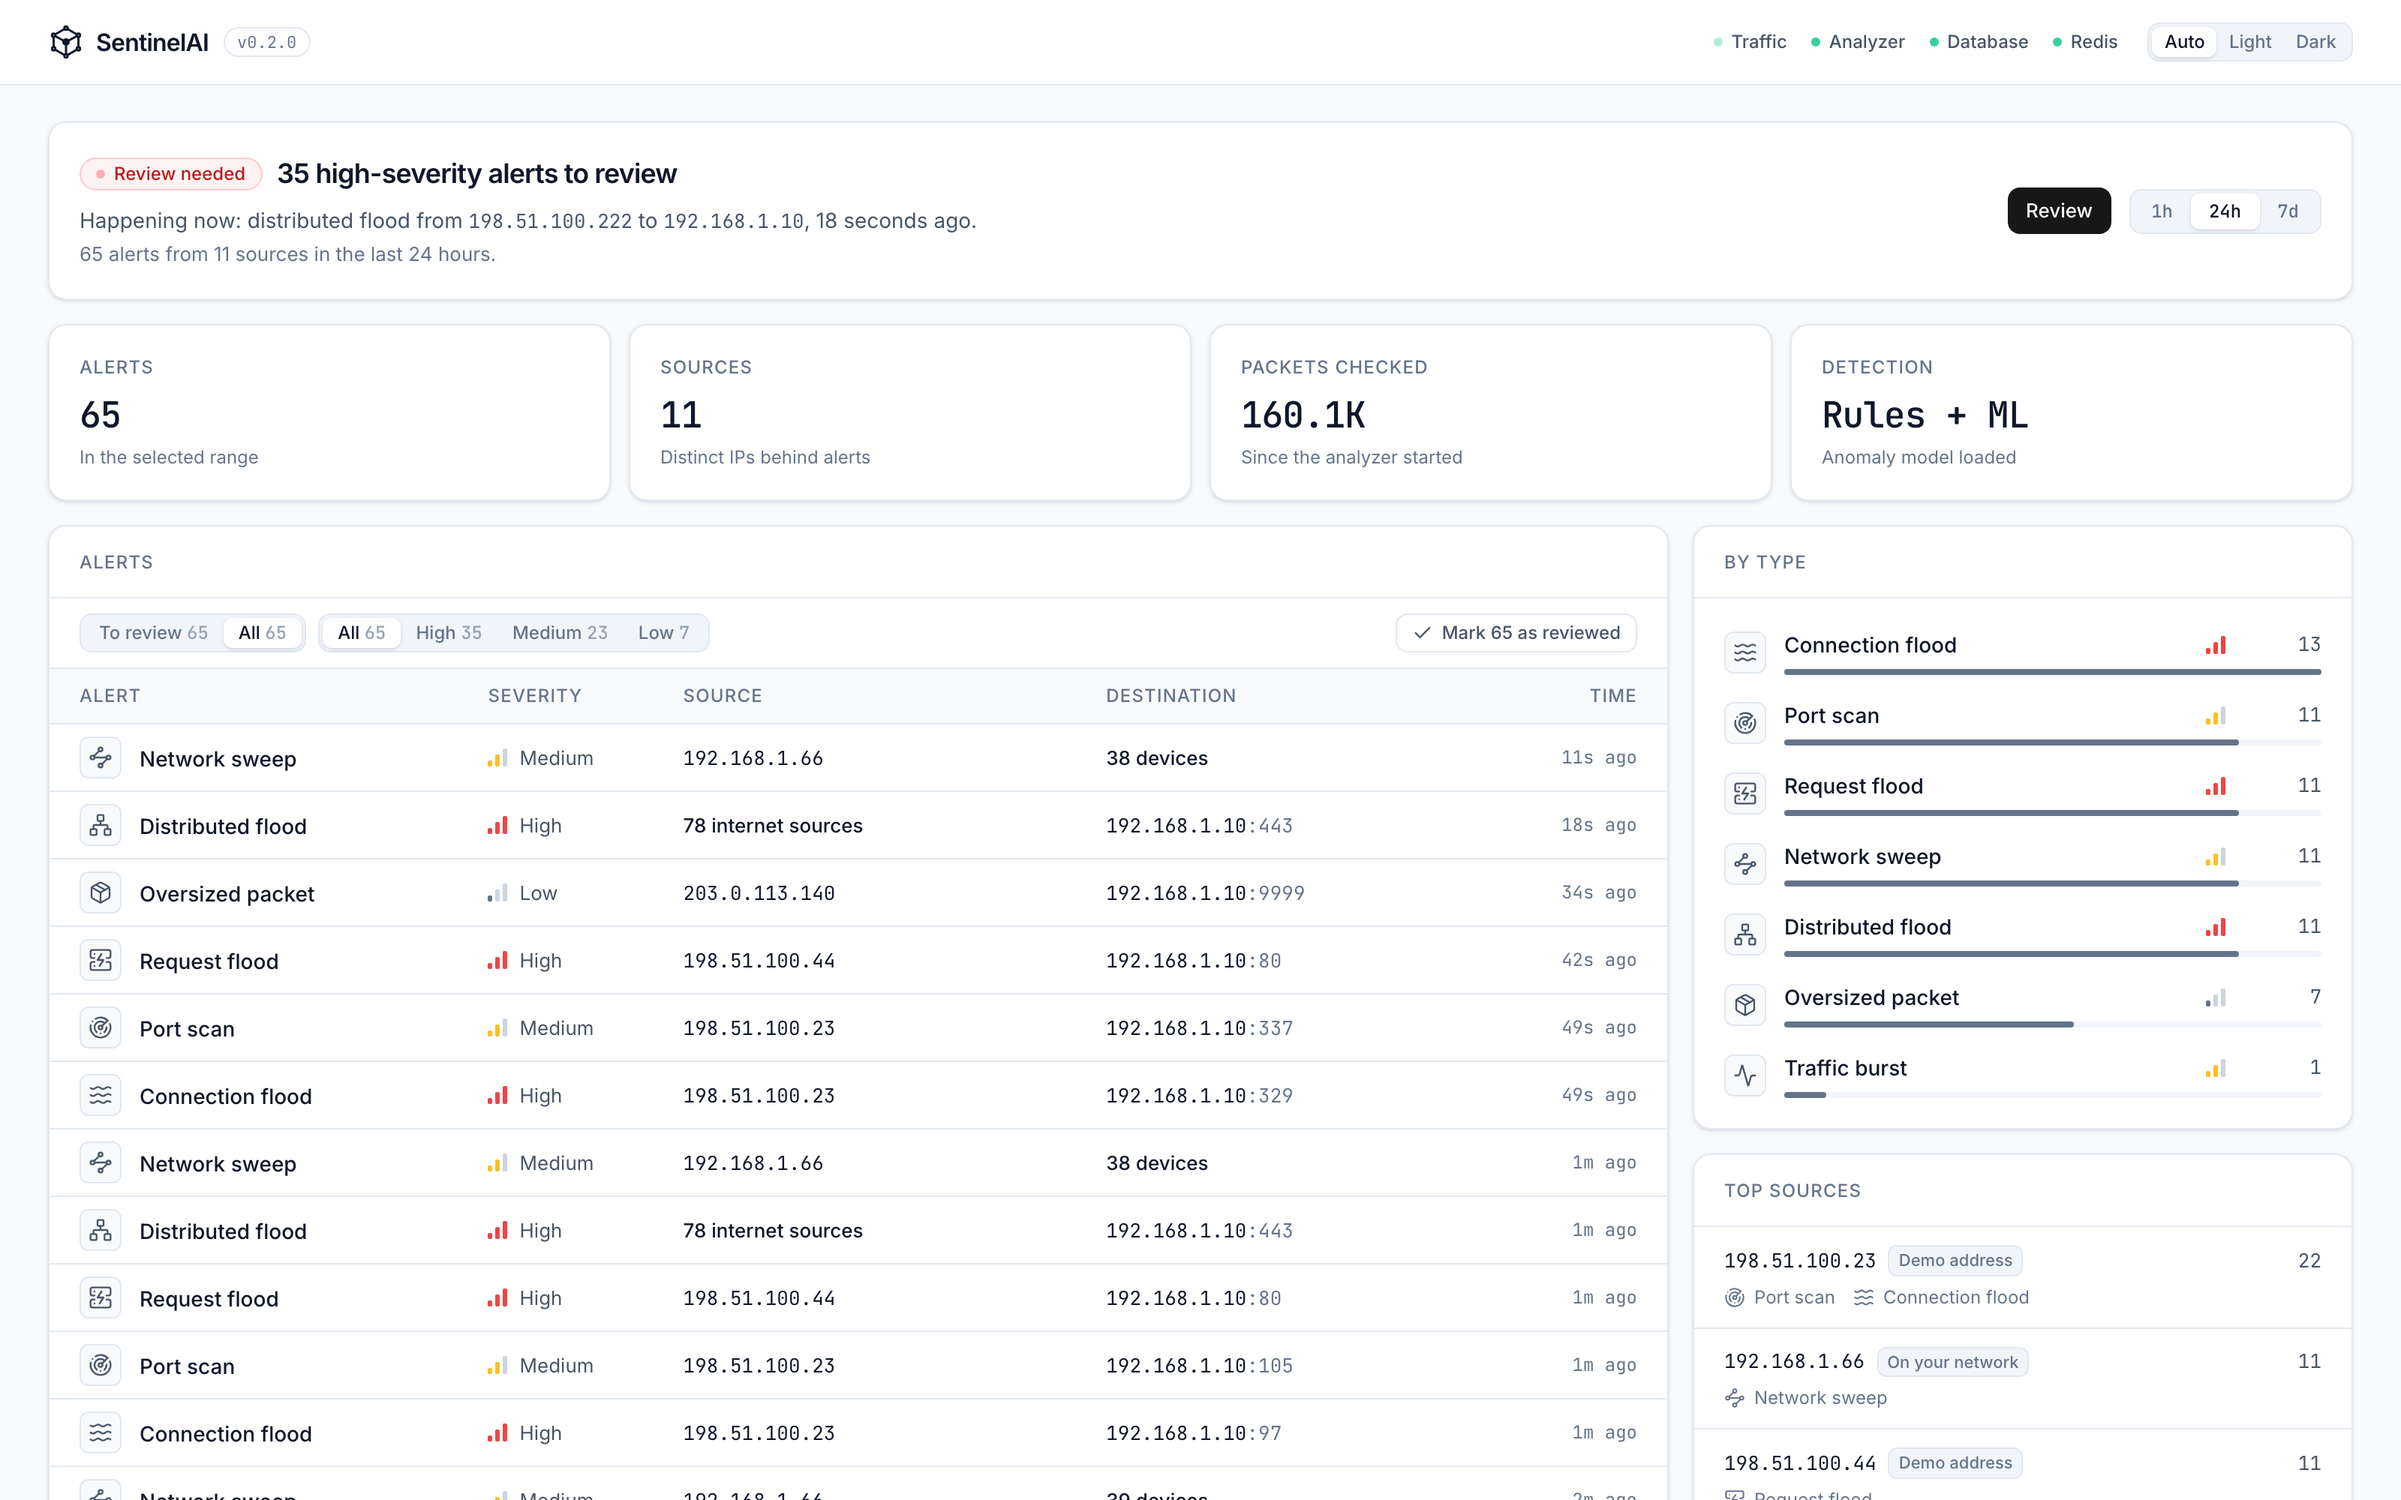
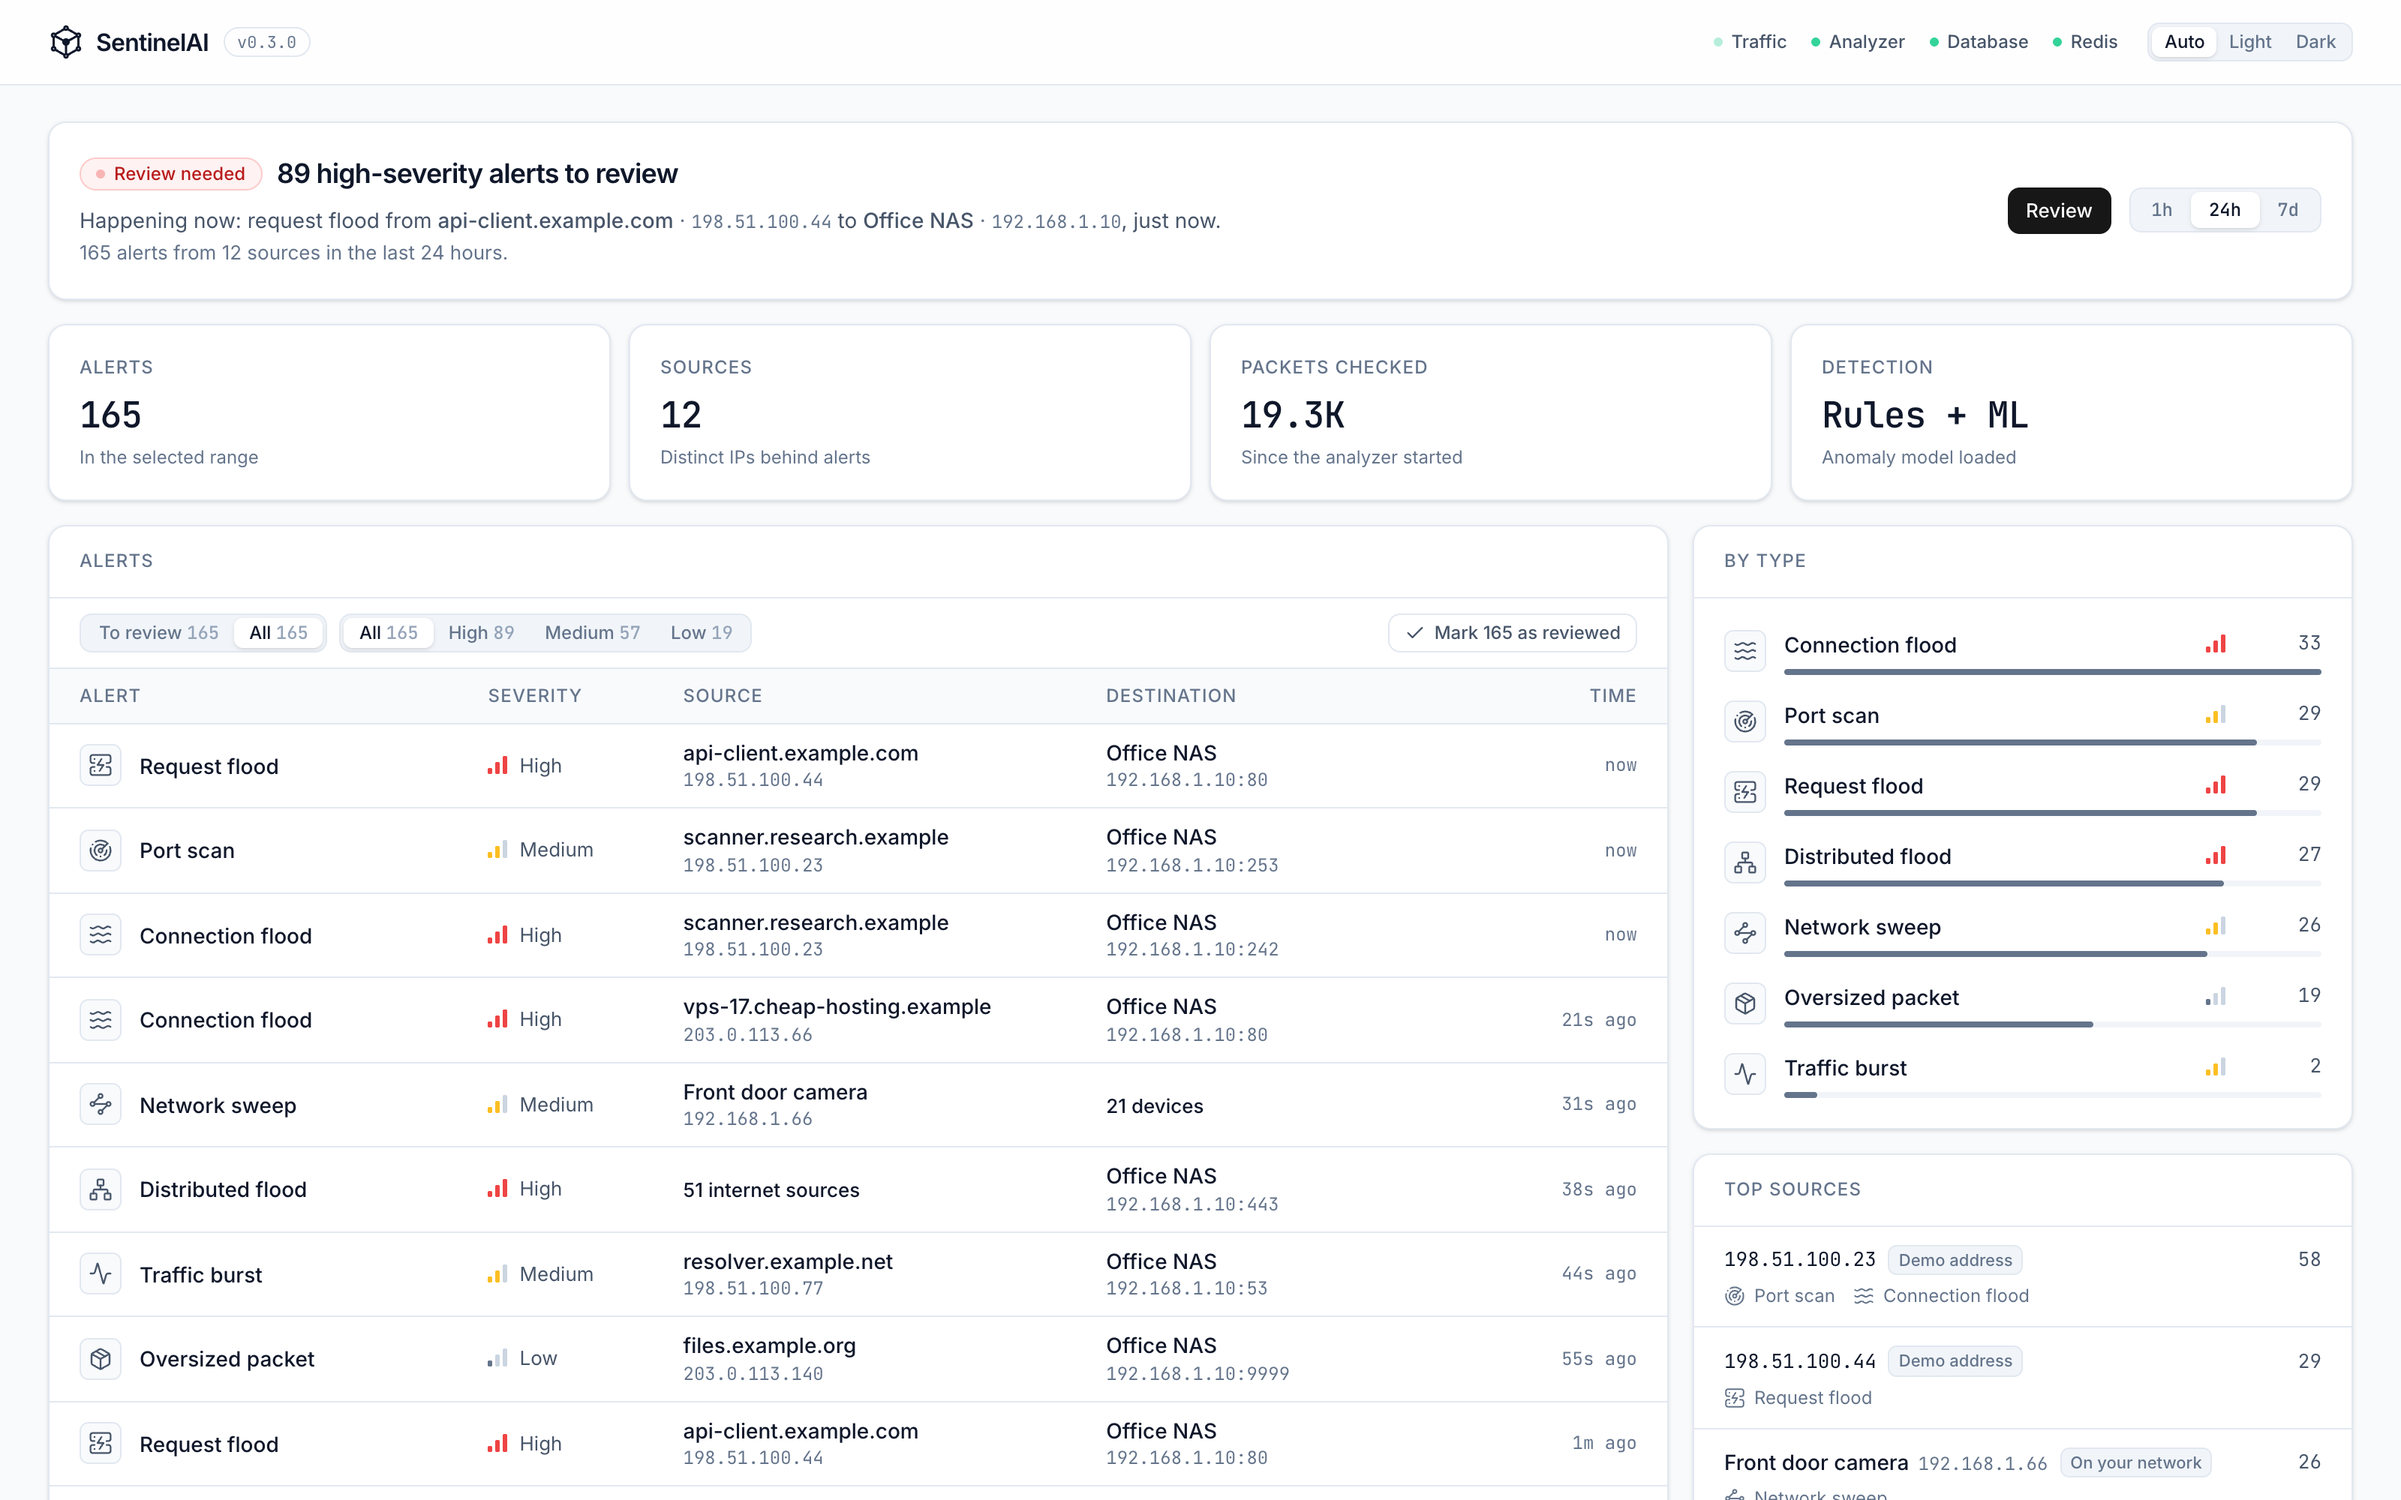
Release 0.3.0 (#5)

diff --git a/website/data/site.ts b/website/data/site.ts
@@ -12,7 +12,7 @@
 
 export const site = {
   name: "SentinelAI",
-  version: "0.2.0",
+  version: "0.3.0",
   repo: "https://github.com/smngvlkz/sentinel",
   evaluationDoc: "https://github.com/smngvlkz/sentinel/blob/master/docs/evaluation.md",
   roadmapDoc: "https://github.com/smngvlkz/sentinel/blob/master/docs/ROADMAP.md",
@@ -103,7 +103,7 @@ export const resultNotes: string[] = [
   "An earlier version of these results had a scoring bug, found by the held-out Wednesday test. The numbers here are the corrected ones.",
 ];
 
-export type FeatureIcon = "radar" | "message" | "check" | "shuffle" | "lock" | "play";
+export type FeatureIcon = "radar" | "message" | "tag" | "check" | "shuffle" | "lock" | "play";
 
 export type Feature = { tag: string; icon: FeatureIcon; title: string; body: string; points?: string[] };
 
@@ -127,6 +127,17 @@ export const features: Feature[] = [
     body: "Every alert says what happened, whether the source is on your network or the internet, the evidence behind it, and what to do next.",
   },
   {
+    tag: "Names",
+    icon: "tag",
+    title: "Names, not just addresses",
+    body: "Give your devices names like Living room TV, and optionally let SentinelAI learn which sites they talk to, so an alert reads Office laptop → api.example.com instead of two IP addresses.",
+    points: [
+      "Device names you set, shown everywhere, including on older alerts",
+      "Optional hostnames from DNS, HTTP and TLS, kept in memory only (off by default)",
+      "Anything that isn't a valid hostname is dropped, never cleaned up into a different name",
+    ],
+  },
+  {
     tag: "Review",
     icon: "check",
     title: "A review workflow",
@@ -142,7 +153,7 @@ export const features: Feature[] = [
     tag: "Privacy",
     icon: "lock",
     title: "Private by design",
-    body: "Everything runs on your hardware. It reads packet headers, not contents, and every service listens on 127.0.0.1 only. No account, no cloud.",
+    body: "Everything runs on your hardware. By default it reads packet headers, not contents; optional hostname learning reads only DNS answers, HTTP Host headers and TLS server names. Every service listens on 127.0.0.1 only. No account, no cloud.",
   },
   {
     tag: "Demo",

diff --git a/website/components/FeatureList.vue b/website/components/FeatureList.vue
@@ -1,10 +1,11 @@
 <script setup lang="ts">
-import { CheckCheck, CirclePlay, Lock, MessageSquareText, Radar, Shuffle } from "lucide-vue-next";
+import { CheckCheck, CirclePlay, Lock, MessageSquareText, Radar, Shuffle, Tag } from "lucide-vue-next";
 import { features, type FeatureIcon } from "~/data/site";
 
 // Same icon set as the dashboard (lucide); Shuffle is its "Unusual traffic" icon.
 const icons: Record<FeatureIcon, unknown> = {
   radar: Radar,
+  tag: Tag,
   message: MessageSquareText,
   check: CheckCheck,
   shuffle: Shuffle,

diff --git a/scripts/simulate_attack.py b/scripts/simulate_attack.py
@@ -10,9 +10,11 @@ runs this in Docker; you can also run it directly:
 Background traffic flows constantly. Every minute the simulator replays
 one of each attack against a pretend machine on your network. Attackers
 use the documentation-only ranges 203.0.113.0/24 and 198.51.100.0/24
-(RFC 5737), so demo alerts can never be mistaken for real hosts.
+(RFC 5737), so demo alerts can never be mistaken for real hosts. Their
+hostnames use the reserved .example domains (RFC 2606) for the same reason.
 """
 
+import json
 import os
 import random
 import time
@@ -35,6 +37,18 @@ HIGH_FREQ_SRC = "198.51.100.77"
 REQUEST_FLOOD_SRC = "198.51.100.44"
 # A compromised device on your network, for the sweep.
 SWEEP_SRC = "192.168.1.66"
+RESOLVER = "192.168.1.1"
+
+# Made-up hostnames for the attackers, as if the victim had looked them up,
+# so demo alerts show names (`make demo` turns name learning on).
+# Real public IPs in background() are deliberately left unnamed.
+DEMO_NAMES = {
+    SYN_FLOOD_SRC: "vps-17.cheap-hosting.example",
+    PORT_SCAN_SRC: "scanner.research.example",
+    LARGE_PAYLOAD_SRC: "files.example.org",
+    HIGH_FREQ_SRC: "resolver.example.net",
+    REQUEST_FLOOD_SRC: "api-client.example.com",
+}
 
 
 def packet(src, dst, dst_port, size, flags="", transport="TCP", src_port=None):
@@ -59,6 +73,13 @@ def handshake(src, dst, dst_port):
         packet(dst, src, sport, 60, "SA", src_port=dst_port),
         packet(src, dst, dst_port, 52, "A", src_port=sport),
     ]
+
+
+def dns_answers():
+    """A DNS reply to the victim carrying the demo names, in capture's name_bindings format."""
+    reply = packet(RESOLVER, VICTIM, random.randint(49152, 65535), 180, transport="UDP", src_port=53)
+    reply["name_bindings"] = json.dumps([[ip, name, VICTIM] for ip, name in DEMO_NAMES.items()])
+    return reply
 
 
 def background():
@@ -120,6 +141,8 @@ def main():
     while True:
         second = (time.time() - start) % CYCLE
         batch = [background() for _ in range(10)] + attacks_for(second, scan_port)
+        if second < TICK:
+            batch.append(dns_answers())  # once a cycle, before the first attack
         if 15 <= second < 18:
             scan_port = scan_port + 8 if scan_port < 1000 else 1
 

diff --git a/tests/test_names.py b/tests/test_names.py
@@ -164,3 +164,42 @@ class TestDroppedNamesNeverOverwrite:
         cache = NameCache()
         cache.observe({"name_bindings": json.dumps([["1.2.3.4", "bad name", "10.0.0.5"]])}, now=1.0)
         assert cache.resolve_pairs([("10.0.0.5", "1.2.3.4")], now=2.0) == {}
+
+
+class TestNamesEnabledOverride:
+
+    def test_config_decides_when_env_unset(self):
+        from analysis_service.analyzer import names_enabled
+        assert names_enabled(False, None) is False
+        assert names_enabled(True, None) is True
+        # Blank (as compose passes an unset variable) counts as unset.
+        assert names_enabled(True, "") is True
+        assert names_enabled(False, "  ") is False
+
+    def test_env_wins(self):
+        from analysis_service.analyzer import names_enabled
+        for on in ("1", "true", "TRUE", "yes", "on"):
+            assert names_enabled(False, on) is True
+        for off in ("0", "false", "no", "off"):
+            assert names_enabled(True, off) is False
+
+
+class TestDemoNames:
+    """The simulator's made-up names must survive the real parsing path."""
+
+    def test_demo_bindings_parse_and_resolve(self):
+        sys.path.insert(0, os.path.join(os.path.dirname(__file__), "..", "scripts"))
+        import simulate_attack as sim
+
+        reply = sim.dns_answers()
+        bindings = parse_bindings(reply)
+        assert len(bindings) == len(sim.DEMO_NAMES)          # none dropped as invalid
+        assert all(name.endswith((".example", ".example.com", ".example.net", ".example.org"))
+                   for _, name, _ in bindings)               # reserved names only (RFC 2606)
+
+        cache = NameCache()
+        cache.observe(reply, now=1.0)
+        # Alerts are attacker → victim; each attacker resolves as seen from the victim.
+        assert cache.resolve_pairs([(sim.PORT_SCAN_SRC, sim.VICTIM)], now=2.0) == {
+            sim.PORT_SCAN_SRC: "scanner.research.example"
+        }

diff --git a/analysis_service/analyzer.py b/analysis_service/analyzer.py
@@ -83,19 +83,30 @@ def send_heartbeat(r: redis.Redis, started_at: float, processed: int, model_load
         pass
 
 
+def names_enabled(config_value: object, env: str | None) -> bool:
+    """
+    Whether to learn hostnames. NAMES_ENABLED overrides the config file when
+    set (`make demo` turns names on, since its traffic is all made up);
+    otherwise `[names] enabled` decides.
+    """
+    if env is not None and env.strip():
+        return env.strip().lower() in ("1", "true", "yes", "on")
+    return bool(config_value)
+
+
 def main() -> None:
     r = connect_redis()
     ensure_consumer_group(r)
 
     config = load_config()
     names_cfg = config["names"]
-    names_enabled = bool(names_cfg.get("enabled"))
+    learn_names = names_enabled(names_cfg.get("enabled"), os.getenv("NAMES_ENABLED"))
     name_cache = (
         NameCache(
             max_entries=int(names_cfg.get("max_entries", 10_000)),
             ttl_seconds=float(names_cfg.get("ttl_seconds", 86_400)),
         )
-        if names_enabled
+        if learn_names
         else None
     )
 
@@ -113,7 +124,7 @@ def main() -> None:
         "listening on stream:%s as %s (names=%s)",
         STREAM_NAME,
         CONSUMER_NAME,
-        "on" if names_enabled else "off",
+        "on" if learn_names else "off",
     )
 
     while True:

diff --git a/dashboard-api/main.py b/dashboard-api/main.py
@@ -29,7 +29,7 @@ load_dotenv()
 
 log = logging.getLogger(__name__)
 
-VERSION = "0.2.0"
+VERSION = "0.3.0"
 
 STREAM_NAME = "packet_stream"
 HEARTBEAT_KEY = "sentinel:analyzer:heartbeat"

diff --git a/CHANGELOG.md b/CHANGELOG.md
@@ -6,6 +6,8 @@ uses [Semantic Versioning](https://semver.org/).
 
 ## [Unreleased]
 
+## [0.3.0] - 2026-10-03
+
 ### Added
 
 - Optional hostname context on alerts: when enabled, capture learns IP →
@@ -25,6 +27,18 @@ uses [Semantic Versioning](https://semver.org/).
   `192.168.1.20` → Living room TV. Names are stored by IP in a new
   `device_names` table and shown everywhere in place of the IP, including on
   older alerts. New API endpoints: `GET /devices`, `POST /devices/name`.
+  Alerts from the API now include `source_name`, `destination_name`,
+  `source_device` and `destination_device`.
+
+### Changed
+
+- `make demo` shows hostnames: it turns name learning on (`NAMES_ENABLED`,
+  a new setting that overrides `[names] enabled`) and the simulated
+  attackers get made-up names on the reserved `.example` domains. `make up`
+  is unaffected.
+- Existing installs pick up the new database columns and the
+  `device_names` table automatically when the analyzer and API start, so
+  upgrading from 0.2.0 keeps all stored alerts.
 
 ### Fixed
 
@@ -37,6 +51,15 @@ uses [Semantic Versioning](https://semver.org/).
   connections. After that minute they count again, so floods and sweeps
   that never send a SYN (ACK or RST packets) are counted. Published
   results are unchanged.
+
+### Known limitations
+
+- Hostnames can't be learned from encrypted DNS (DNS over HTTPS/TLS) or
+  from QUIC/HTTP3, where the server name is inside encrypted packets.
+- Device names are stored by IP address, so a device that gets a new
+  address from the router needs naming again.
+- Learned hostnames are chosen by whoever sent the traffic: helpful
+  context, not proof of identity.
 
 ## [0.2.0] - 2026-09-29
 
@@ -111,6 +134,7 @@ First public release.
 - Evaluation against CIC-IDS2017, with results in
   [docs/evaluation.md](docs/evaluation.md).
 
-[Unreleased]: https://github.com/smngvlkz/sentinel/compare/v0.2.0...HEAD
+[Unreleased]: https://github.com/smngvlkz/sentinel/compare/v0.3.0...HEAD
+[0.3.0]: https://github.com/smngvlkz/sentinel/compare/v0.2.0...v0.3.0
 [0.2.0]: https://github.com/smngvlkz/sentinel/compare/v0.1.0...v0.2.0
 [0.1.0]: https://github.com/smngvlkz/sentinel/releases/tag/v0.1.0

diff --git a/README.md b/README.md
@@ -36,7 +36,9 @@ minute (a connection flood, a port scan, a request flood, a distributed flood,
 a network sweep, an oversized packet and a traffic burst), and you'll see them
 detected within seconds. The simulated attackers on the internet use the IP
 ranges reserved for documentation (`203.0.113.0/24`, `198.51.100.0/24`), so
-they can never be confused with real hosts. The simulated devices on your
+they can never be confused with real hosts. The demo turns on hostname
+learning and gives them made-up names on the reserved `.example` domains, so
+you can see how named alerts look. The simulated devices on your
 network use `192.168.1.x` addresses, which may overlap with real ones on your
 network, so run the demo on its own rather than alongside real capture.
 
@@ -292,6 +294,7 @@ Settings live in `.env`, which `make setup` creates from [`.env.example`](.env.e
 | `DASHBOARD_UI_PORT` | `3001` | Dashboard port |
 | `DASHBOARD_PORT` | `8000` | API port |
 | `ALERT_COOLDOWN_SECONDS` | from `detection.toml` | Overrides the alert de-duplication window |
+| `NAMES_ENABLED` | from `detection.toml` | Overrides `[names] enabled` (`make demo` sets it to `true`; its traffic is made up) |
 | `SENTINEL_CONFIG` | `config/detection.toml` | Path to a custom detection config |
 
 ### Remote access
